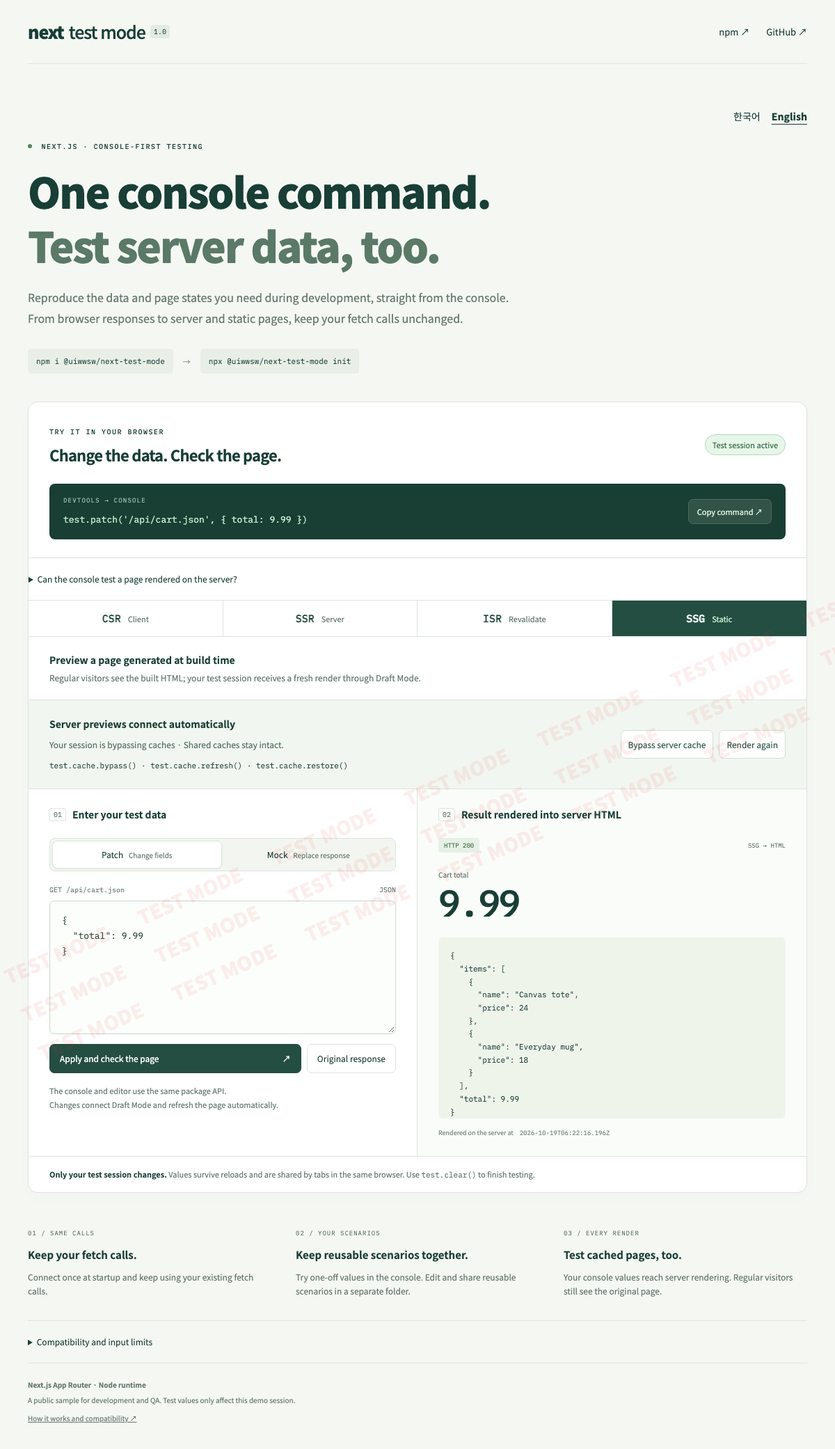
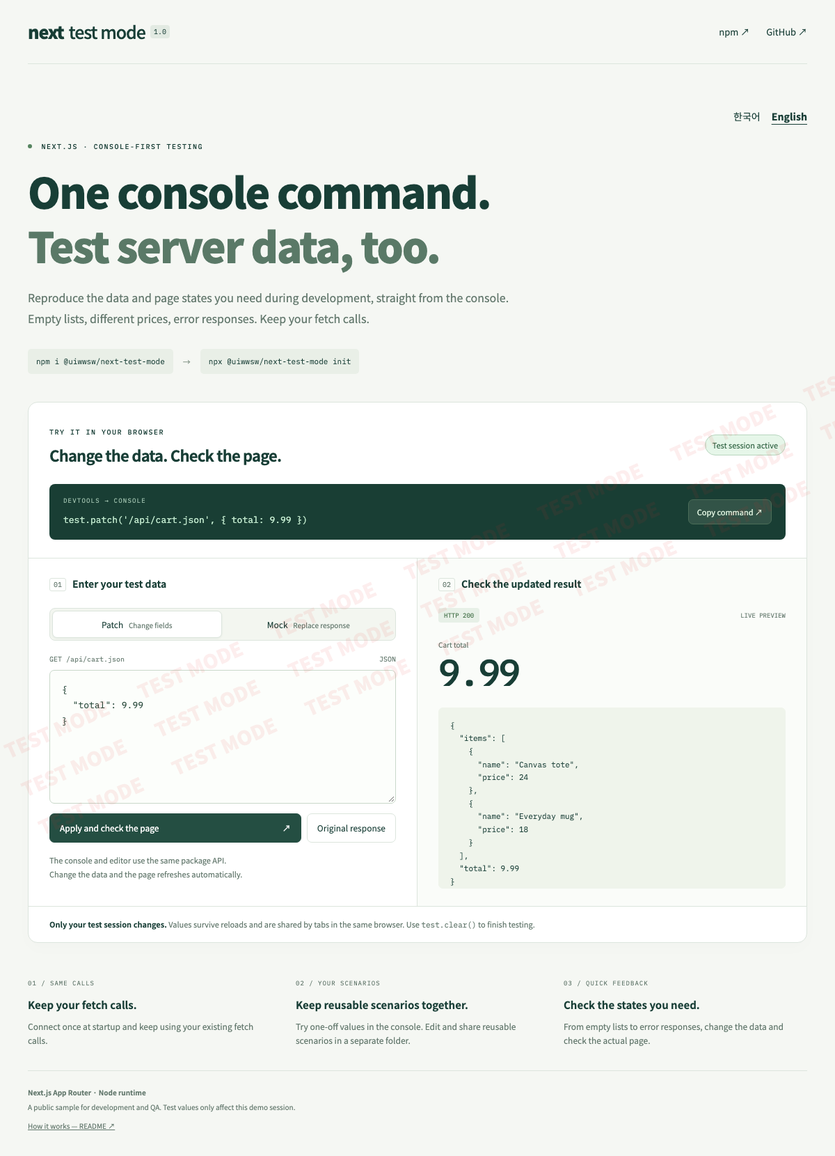
fix: focus the demo on console data testing

diff --git a/demo-components/Playground.jsx b/demo-components/Playground.jsx
@@ -5,21 +5,6 @@ import { english } from "./messages.js";
 const command = "test.patch('/api/cart.json', { total: 9.99 })";
 const snapshot = (runtime) =>
   JSON.stringify([runtime.active(), runtime.overrides()]);
-const modes = {
-  CSR: [
-    "브라우저가 가져온 응답",
-    "브라우저 fetch에 같은 테스트 값을 적용합니다.",
-  ],
-  SSR: ["요청마다 새로 그린 화면", "서버가 fetch한 값으로 HTML을 생성합니다."],
-  ISR: [
-    "캐시된 화면도 내 세션에서 새로",
-    "일반 방문자는 60초 재검증 캐시를, 테스트 세션은 새 서버 렌더를 사용합니다.",
-  ],
-  SSG: [
-    "빌드 때 만든 화면도 미리보기",
-    "일반 방문자는 빌드된 HTML을, 테스트 세션은 Draft Mode의 새 렌더를 받습니다.",
-  ],
-};
 export default function Playground({
   mode,
   locale = "ko",
@@ -28,7 +13,6 @@ export default function Playground({
   renderedAt = null,
 }) {
   const t = (value) => locale === "en" ? english[value] ?? value : value;
-  const prefix = locale === "en" ? "/en" : "";
   const [result, setResult] = useState(initial);
   const [input, setInput] = useState('{\n  "total": 9.99\n}');
   const [operation, setOperation] = useState("patch");
@@ -37,7 +21,6 @@ export default function Playground({
   const [active, setActive] = useState(false);
   const [error, setError] = useState("");
   const [copied, setCopied] = useState(false);
-  const [cacheState, setCacheState] = useState(null);
   useEffect(() => {
     let live = true;
     const controller = window.demoTestMode;
@@ -64,7 +47,6 @@ export default function Playground({
         .then(() => {
           if (live) {
             setReady(true);
-            setCacheState(controller.cache.status());
             setActive(controller.cache.status().draftEnabled);
           }
         })
@@ -109,7 +91,6 @@ export default function Playground({
     setError("");
     try {
       await window.demoTestMode.cache[action]();
-      setCacheState(window.demoTestMode.cache.status());
       setActive(window.demoTestMode.cache.status().draftEnabled);
     } catch (cause) {
       setError(cause.message);
@@ -148,7 +129,7 @@ export default function Playground({
         </h1>
         <p className="intro-copy">
            {t("개발 중 필요한 데이터와 화면 상태를 콘솔에서 바로 재현하세요.")} <br />
-           {t("브라우저 응답부터 서버·정적 페이지까지, 호출 코드는 그대로입니다.")} </p>
+           {t("빈 목록, 바뀐 가격, 오류 응답까지. 호출 코드는 그대로입니다.")} </p>
         <div className="install">
           <code>npm i @uiwwsw/next-test-mode</code>
           <span>→</span>
@@ -176,64 +157,6 @@ export default function Playground({
           <button onClick={copy} aria-label={t("콘솔 명령 복사")}>
             {copied ? t("복사 완료 ✓") : t("명령 복사 ↗")}
           </button>
-        </div>
-        <details className="limits">
-          <summary> {t("서버에서 만든 화면도 콘솔로 테스트할 수 있을까요?")} </summary>
-          <p> {t("브라우저 콘솔만으로는 이미 서버에서 생성한 HTML이나 빌드된 정적 데이터를 바꾸기 어렵습니다. Next Test Mode는 개발·QA 세션에서 테스트 값을 서버에 전달하고, Draft Mode로 캐시를 우회해 화면을 다시 렌더합니다. 평소 데브 모드에서 화면 상태를 재현하듯, 같은 콘솔 명령으로 확인하세요.")} </p>
-          <p> {t("아래 렌더 방식은 기능 목록이 아니라 같은 테스트 값이 어디까지 적용되는지 확인하는 예제입니다. 먼저 명령을 실행하고 다른 방식으로 이동해 보세요.")} </p>
-        </details>
-        <nav className="mode-nav" aria-label={t("렌더링 방식")}>
-          {Object.keys(modes).map((value) => (
-            <a
-              key={value}
-              href={`${prefix}/${value.toLowerCase()}`}
-              aria-current={mode === value ? "page" : undefined}
-            >
-              {value}
-              <span>
-                {value === "CSR"
-                  ? "Client"
-                  : value === "SSR"
-                    ? "Server"
-                    : value === "ISR"
-                      ? "Revalidate"
-                      : "Static"}
-              </span>
-            </a>
-          ))}
-        </nav>
-        <div className="mode-description">
-          <strong>{t(modes[mode][0])}</strong>
-          <p>{t(modes[mode][1])}</p>
-        </div>
-        <div className="cache-tools" aria-label={t("서버 캐시 제어")}>
-          <div>
-            <strong> {t("서버 미리보기는 자동으로 연결됩니다")} </strong>
-            <p data-cache-status>
-              {cacheState?.draftEnabled
-                ? t("내 세션은 캐시를 우회하는 중")
-                : t("기본 캐시 경로")}{" "}
-               {t("· 공용 캐시는 유지됩니다.")} </p>
-            <code>
-              test.cache.bypass() · test.cache.refresh() · test.cache.restore()
-            </code>
-          </div>
-          <div className="cache-actions">
-            <button
-              disabled={!ready}
-              onClick={() => {
-                void controlCache("bypass");
-              }}
-            >
-               {t("서버 캐시 우회")} </button>
-            <button
-              disabled={!ready}
-              onClick={() => {
-                void controlCache("refresh");
-              }}
-            >
-               {t("다시 렌더")} </button>
-          </div>
         </div>
         <div className="workspace">
           <section className="editor-pane">
@@ -306,20 +229,16 @@ export default function Playground({
             )}
             <p className="pane-note">
                {t("콘솔과 입력창은 같은 패키지 API를 실행합니다.")} <br />
-               {t("값을 바꾸면 Draft Mode 연결 후 화면이 자동 갱신됩니다.")} </p>
+               {t("값을 바꾸면 화면이 자동으로 갱신됩니다.")} </p>
           </section>
           <section className="result-pane">
             <div className="pane-heading">
               <span className="step">02</span>
-              <h3>
-                {mode === "CSR"
-                  ? t("브라우저가 받은 결과")
-                  : t("서버가 HTML에 넣은 결과")}
-              </h3>
+              <h3>{t("변경된 결과를 확인하세요")}</h3>
             </div>
             <div className="result-meta">
               <span className="http-badge">HTTP {result?.status ?? "…"}</span>
-              <span>{mode === "CSR" ? "CLIENT FETCH" : `${mode} → HTML`}</span>
+              <span>LIVE PREVIEW</span>
             </div>
             <div className="total-block">
               <span>Cart total</span>
@@ -330,11 +249,7 @@ export default function Playground({
                 ? JSON.stringify(result.data, null, 2)
                 : t("데이터를 불러오는 중…")}
             </pre>
-            {renderedAt && (
-              <div className="render-stamp">
-                 {t("서버에서 생성한 시각")} <time data-rendered-at>{renderedAt}</time>
-              </div>
-            )}
+            {renderedAt && <time hidden data-rendered-at>{renderedAt}</time>}
           </section>
         </div>
         <p className="session-note">
@@ -353,19 +268,12 @@ export default function Playground({
              {t("한 번 쓸 값은 콘솔에서. 반복할 시나리오는 별도 폴더에서 수정하고 공유하세요.")} </p>
         </article>
         <article>
-          <span>03 / EVERY RENDER</span>
-          <h3> {t("캐시된 페이지도 확인하세요.")} </h3>
+          <span>03 / QUICK FEEDBACK</span>
+          <h3> {t("필요한 상태를 바로 확인하세요.")} </h3>
           <p>
-             {t("콘솔의 테스트 값을 서버 렌더에도 전달합니다. 일반 방문자는 원래 페이지를 봅니다.")} </p>
+             {t("빈 목록부터 오류 응답까지. 데이터만 바꾸고 실제 화면에서 확인하세요.")} </p>
         </article>
       </section>
-      <details className="limits">
-        <summary> {t("지원 범위와 입력값 안내")} </summary>
-        <p>
-           {t("Next.js 16 App Router의 Node 환경에서 실행하는 fetch 기반 CSR·SSR·ISR·SSG 미리보기를 지원합니다. 정적 HTML export·Pages Router·Edge·DB 직접 조회는 자동 연결 범위에 포함하지 않습니다.")} </p>
-        <p>
-           {t("입력값은 인코딩 후 최대 3,500바이트입니다. 큰 응답은 필요한 필드만 Patch하거나 파일에 시나리오로 등록하세요. 이 데모는 /api/cart.json 샘플 경로만 변경합니다.")} </p>
-      </details>
     </>
   );
 }

diff --git a/demo-components/messages.js b/demo-components/messages.js
@@ -1,37 +1,17 @@
-// Shared by both locales; keep the console and rendering logic in one component.
+// Shared by both locales.
 export const english = {
-  "브라우저가 가져온 응답": "Responses fetched in the browser",
-  "브라우저 fetch에 같은 테스트 값을 적용합니다.": "Apply the same test values to browser fetch responses.",
-  "요청마다 새로 그린 화면": "A fresh page on every request",
-  "서버가 fetch한 값으로 HTML을 생성합니다.": "The server builds HTML from its fetched data.",
-  "캐시된 화면도 내 세션에서 새로": "Preview a cached page in your session",
-  "일반 방문자는 60초 재검증 캐시를, 테스트 세션은 새 서버 렌더를 사용합니다.": "Regular visitors use the 60-second revalidation cache; your test session gets a fresh server render.",
-  "빌드 때 만든 화면도 미리보기": "Preview a page generated at build time",
-  "일반 방문자는 빌드된 HTML을, 테스트 세션은 Draft Mode의 새 렌더를 받습니다.": "Regular visitors see the built HTML; your test session receives a fresh render through Draft Mode.",
   "명령을 선택해 복사해 주세요.": "Select and copy the command manually.",
   "콘솔 한 줄로.": "One console command.",
   "서버 데이터까지 테스트.": "Test server data, too.",
   "개발 중 필요한 데이터와 화면 상태를 콘솔에서 바로 재현하세요.": "Reproduce the data and page states you need during development, straight from the console.",
-  "브라우저 응답부터 서버·정적 페이지까지, 호출 코드는 그대로입니다.": "From browser responses to server and static pages, keep your fetch calls unchanged.",
   "실제 Next.js 데모": "Live Next.js demo",
   "값을 바꾸고, 화면에서 확인하세요.": "Change the data. Check the page.",
   "연결 중…": "Connecting…",
   "테스트 세션 활성": "Test session active",
   "원래 데이터": "Original data",
-  "서버에서 만든 화면도 콘솔로 테스트할 수 있을까요?": "Can the console test a page rendered on the server?",
-  "브라우저 콘솔만으로는 이미 서버에서 생성한 HTML이나 빌드된 정적 데이터를 바꾸기 어렵습니다. Next Test Mode는 개발·QA 세션에서 테스트 값을 서버에 전달하고, Draft Mode로 캐시를 우회해 화면을 다시 렌더합니다. 평소 데브 모드에서 화면 상태를 재현하듯, 같은 콘솔 명령으로 확인하세요.": "The browser console alone cannot easily change HTML already rendered on the server or data fixed at build time. Next Test Mode sends your test values to the server and uses Draft Mode to bypass caches for your development or QA session. Reproduce page states with the same commands you use while developing locally.",
-  "아래 렌더 방식은 기능 목록이 아니라 같은 테스트 값이 어디까지 적용되는지 확인하는 예제입니다. 먼저 명령을 실행하고 다른 방식으로 이동해 보세요.": "The rendering examples below show how far the same test values reach. Run a command first, then switch to another example.",
-  "렌더링 방식": "Rendering examples",
   "콘솔 명령 복사": "Copy console command",
   "복사 완료 ✓": "Copied ✓",
   "명령 복사 ↗": "Copy command ↗",
-  "서버 캐시 제어": "Server preview controls",
-  "서버 미리보기는 자동으로 연결됩니다": "Server previews connect automatically",
-  "내 세션은 캐시를 우회하는 중": "Your session is bypassing caches",
-  "기본 캐시 경로": "Default cache path",
-  "· 공용 캐시는 유지됩니다.": "· Shared caches stay intact.",
-  "서버 캐시 우회": "Bypass server cache",
-  "다시 렌더": "Render again",
   "원하는 데이터를 넣으세요": "Enter your test data",
   "일부 변경": "Change fields",
   "전체 교체": "Replace response",
@@ -39,11 +19,7 @@ export const english = {
   "적용하고 화면 확인": "Apply and check the page",
   "원래 응답": "Original response",
   "콘솔과 입력창은 같은 패키지 API를 실행합니다.": "The console and editor use the same package API.",
-  "값을 바꾸면 Draft Mode 연결 후 화면이 자동 갱신됩니다.": "Changes connect Draft Mode and refresh the page automatically.",
-  "브라우저가 받은 결과": "Result received by the browser",
-  "서버가 HTML에 넣은 결과": "Result rendered into server HTML",
   "데이터를 불러오는 중…": "Loading data…",
-  "서버에서 생성한 시각": "Rendered on the server at",
   "내 테스트 세션에만 적용됩니다.": "Only your test session changes.",
   "새로고침 후에도 유지되며, 같은 브라우저의 탭이 공유합니다.": "Values survive reloads and are shared by tabs in the same browser. Use",
   "로 종료하세요.": "to finish testing.",
@@ -52,9 +28,9 @@ export const english = {
   "앱 시작 지점에 한 번 연결하면 기존 fetch를 계속 사용합니다.": "Connect once at startup and keep using your existing fetch calls.",
   "테스트는 테스트로 남기세요.": "Keep reusable scenarios together.",
   "한 번 쓸 값은 콘솔에서. 반복할 시나리오는 별도 폴더에서 수정하고 공유하세요.": "Try one-off values in the console. Edit and share reusable scenarios in a separate folder.",
-  "캐시된 페이지도 확인하세요.": "Test cached pages, too.",
-  "콘솔의 테스트 값을 서버 렌더에도 전달합니다. 일반 방문자는 원래 페이지를 봅니다.": "Your console values reach server rendering. Regular visitors still see the original page.",
-  "지원 범위와 입력값 안내": "Compatibility and input limits",
-  "Next.js 16 App Router의 Node 환경에서 실행하는 fetch 기반 CSR·SSR·ISR·SSG 미리보기를 지원합니다. 정적 HTML export·Pages Router·Edge·DB 직접 조회는 자동 연결 범위에 포함하지 않습니다.": "Supports fetch-based CSR, SSR, ISR and SSG previews with Next.js 16 App Router on Node. Static HTML export, Pages Router, Edge and direct database calls require separate integration.",
-  "입력값은 인코딩 후 최대 3,500바이트입니다. 큰 응답은 필요한 필드만 Patch하거나 파일에 시나리오로 등록하세요. 이 데모는 /api/cart.json 샘플 경로만 변경합니다.": "Encoded input is limited to 3,500 bytes. For larger responses, patch only the fields you need or define reusable scenarios in files. This demo only changes the /api/cart.json sample endpoint."
+  "빈 목록, 바뀐 가격, 오류 응답까지. 호출 코드는 그대로입니다.": "Empty lists, different prices, error responses. Keep your fetch calls.",
+  "값을 바꾸면 화면이 자동으로 갱신됩니다.": "Change the data and the page refreshes automatically.",
+  "변경된 결과를 확인하세요": "Check the updated result",
+  "필요한 상태를 바로 확인하세요.": "Check the states you need.",
+  "빈 목록부터 오류 응답까지. 데이터만 바꾸고 실제 화면에서 확인하세요.": "From empty lists to error responses, change the data and check the actual page."
 };

diff --git a/demo-components/SiteLayout.jsx b/demo-components/SiteLayout.jsx
@@ -1,3 +1,4 @@
+import packageInfo from "../package.json";
 import { siteUrl } from "./seo.js";
 export default function SiteLayout({ children, locale = "ko" }) {
   return (
@@ -6,7 +7,7 @@ export default function SiteLayout({ children, locale = "ko" }) {
         <script type="application/ld+json" dangerouslySetInnerHTML={{ __html: JSON.stringify({
           "@context": "https://schema.org", "@type": "SoftwareApplication",
           name: "Next Test Mode", applicationCategory: "DeveloperApplication",
-          operatingSystem: "Cross-platform", softwareVersion: "1.0.0",
+          operatingSystem: "Cross-platform", softwareVersion: packageInfo.version,
           url: `${siteUrl}${locale === "en" ? "/en" : ""}`, inLanguage: locale,
           description: locale === "en" ? "Test Next.js fetch responses and page states from the console, with session-scoped server and static previews." : "콘솔에서 Next.js fetch 응답과 화면 상태를 재현하고 서버·정적 페이지도 세션별로 확인하는 개발·QA 도구입니다.",
           sameAs: "https://github.com/uiwwsw/next-test-mode",
@@ -31,8 +32,8 @@ export default function SiteLayout({ children, locale = "ko" }) {
           <p>
             {locale === "en" ? "A public sample for development and QA. Test values only affect this demo session." : "이 사이트는 테스트용 공개 샘플입니다. 다른 앱의 데이터에는 영향을 주지 않습니다."}
           </p>
-          <a href="https://github.com/uiwwsw/next-test-mode/blob/main/docs/server-rendering.md">
-            {locale === "en" ? "How it works and compatibility ↗" : "동작 원리와 지원 범위 ↗"}
+          <a href="https://github.com/uiwwsw/next-test-mode/blob/main/README.md#rendering-support">
+            {locale === "en" ? "How it works — README ↗" : "동작 원리와 지원 범위는 README에서 ↗"}
           </a>
         </footer>
       </body>

diff --git a/demo-components/seo.js b/demo-components/seo.js
@@ -1,8 +1,10 @@
 export const siteUrl = 'https://test-mode-tau.vercel.app';
-export const routes = ['', '/csr', '/ssr', '/isr', '/ssg'];
+export const routes = [''];
 export function pageMetadata(locale = 'ko', path = '') {
   const en = locale === 'en';
-  const label = path ? `${path.slice(1).toUpperCase()} · ` : '';
+  const label = '';
+  // Compatibility rendering routes share the same demo UI; consolidate search signals.
+  path = '';
   const title = en
     ? `${label}Next Test Mode — Test Next.js API data from the console`
     : `${label}Next Test Mode — Next.js API 데이터를 콘솔에서 테스트`;

diff --git a/README.ko.md b/README.ko.md
@@ -1,7 +1,7 @@
 [English](./README.md) · **한국어**
 
 <p align="center">
-  <img src="https://raw.githubusercontent.com/uiwwsw/next-test-mode/v1.0.0/docs/assets/hero.png" width="100%" alt="Next Test Mode — 콘솔 한 줄로 서버 데이터까지 테스트." />
+  <img src="https://raw.githubusercontent.com/uiwwsw/next-test-mode/v1.0.1/docs/assets/hero.png" width="100%" alt="Next Test Mode — 콘솔 한 줄로 서버 데이터까지 테스트." />
 </p>
 <p align="center">
   <strong>콘솔 한 줄로. 서버 데이터까지 테스트.</strong><br />
@@ -83,10 +83,10 @@ src/                         # src 없는 앱은 프로젝트 루트
 
 ## See it in action
 
-**[CSR](https://test-mode-tau.vercel.app/csr) · [SSR](https://test-mode-tau.vercel.app/ssr) · [ISR](https://test-mode-tau.vercel.app/isr) · [SSG](https://test-mode-tau.vercel.app/ssg)** — 먼저 콘솔에서 장바구니 값을 바꾸고, 페이지를 이동해 서버·정적 화면에도 같은 값이 반영되는지 확인하세요.
+**[콘솔 데모 열기](https://test-mode-tau.vercel.app/)** — 값을 바꾸고 화면을 확인한 뒤 `test.clear()`로 돌아오세요.
 
 <p align="center">
-  <img src="https://raw.githubusercontent.com/uiwwsw/next-test-mode/v1.0.0/docs/assets/scenarios.gif" width="960" alt="실제 Next.js 데모: SSG 원래 가격, 콘솔 patch, SSR에서도 같은 값, HTTP 503, 원래 캐시 응답 복귀." />
+  <img src="https://raw.githubusercontent.com/uiwwsw/next-test-mode/v1.0.1/docs/assets/scenarios.gif" width="960" alt="실제 Next.js 데모: SSG 원래 가격, 콘솔 patch, SSR에서도 같은 값, HTTP 503, 원래 캐시 응답 복귀." />
 </p>
 
 데모의 DevTools Console에 입력하거나, 화면의 JSON 편집기에서 원하는 값을 적용하세요.
@@ -100,11 +100,11 @@ test.reset('/api/cart.json');   // 이 경로의 직접 입력만 제거
 test.clear();                  // 모든 입력과 시나리오 해제
 ```
 
-SSR·ISR·SSG 탭에서는 **서버가 보낸 HTML 자체에 변경된 값이 들어갑니다.** 다른 브라우저 세션의 원래 응답은 유지됩니다. JSON 상태는 같은 브라우저의 탭이 공유하며 새로고침 후에도 유지됩니다. 테스트가 끝나면 `test.clear()`를 사용하세요.
+서버 렌더 미리보기에서는 **서버가 보낸 HTML 자체에 변경된 값이 들어갑니다.** 다른 브라우저 세션의 원래 응답은 유지됩니다. JSON 상태는 같은 브라우저의 탭이 공유하며 새로고침 후에도 유지됩니다. 테스트가 끝나면 `test.clear()`를 사용하세요.
 
 ## Rendering support
 
-개발·QA에서 다양한 렌더 환경의 화면 상태를 재현합니다. CSR은 브라우저 fetch를 가로채고, 서버 페이지는 테스트 쿠키로 값을 전달받습니다. Next Draft Mode가 해당 세션의 정적·재검증 캐시를 우회하므로, 원래 SSG·ISR 페이지에서도 변경된 데이터로 새 HTML을 확인할 수 있습니다.
+브라우저 콘솔만으로는 이미 만들어진 서버 HTML이나 SSG 산출물을 직접 바꿀 수 없습니다. Next Test Mode는 테스트 값을 서버에 전달하고 Draft Mode로 해당 세션의 캐시를 우회해 새 HTML을 렌더합니다. 덕분에 개발자는 렌더 방식을 골라 테스트하지 않고 같은 콘솔 명령으로 지원하는 fetch 데이터와 화면 상태를 재현합니다. CSR은 브라우저 fetch를 가로채고, 서버 페이지는 테스트 쿠키로 값을 전달받습니다. 렌더별 동작과 제한은 아래 표에서 확인하세요.
 
 | 렌더 방식 | Console 변경 후 동작 |
 | :--- | :--- |

diff --git a/README.md b/README.md
@@ -1,7 +1,7 @@
 **English** · [한국어](./README.ko.md)
 
 <p align="center">
-  <img src="https://raw.githubusercontent.com/uiwwsw/next-test-mode/v1.0.0/docs/assets/hero.png" width="100%" alt="Next Test Mode — One console. Server data, too." />
+  <img src="https://raw.githubusercontent.com/uiwwsw/next-test-mode/v1.0.1/docs/assets/hero.png" width="100%" alt="Next Test Mode — One console. Server data, too." />
 </p>
 <p align="center"><strong>Test Next.js API data and page states from the console.</strong><br />Keep your fetch calls. Try the data you need. Check the real page.</p>
 <p align="center">
@@ -74,11 +74,9 @@ Development is enabled by default. To use an intentional QA deployment, set **`N
 
 ## See it in action
 
-Open the [English demo](https://test-mode-tau.vercel.app/en) or [한국어 데모](https://test-mode-tau.vercel.app/). Change a cart value first, then visit the server and static examples to see the same value in their rendered HTML.
+Open the [English demo](https://test-mode-tau.vercel.app/en) or [한국어 데모](https://test-mode-tau.vercel.app/). Change a cart value in the console, check the updated page, then clear the test.
 
-[CSR](https://test-mode-tau.vercel.app/en/csr) · [SSR](https://test-mode-tau.vercel.app/en/ssr) · [ISR](https://test-mode-tau.vercel.app/en/isr) · [SSG](https://test-mode-tau.vercel.app/en/ssg)
-
-<p align="center"><img src="https://raw.githubusercontent.com/uiwwsw/next-test-mode/v1.0.0/docs/assets/scenarios.gif" width="960" alt="Console patch changes a static cart preview and server HTML; mock an HTTP error, then restore the original response." /></p>
+<p align="center"><img src="https://raw.githubusercontent.com/uiwwsw/next-test-mode/v1.0.1/docs/assets/scenarios.gif" width="960" alt="Console patch changes a static cart preview and server HTML; mock an HTTP error, then restore the original response." /></p>
 
 Use DevTools Console or the demo's JSON editor:
 
@@ -183,4 +181,4 @@ npm run dev:demo       # Next.js demo
 npm run build:demo     # Vercel production build
 ```
 
-A GitHub Release from a verified main tag triggers CI and npm publishing with provenance. Stable releases use `latest`. Version 1.0.0 retains the 0.7 public APIs. [Release process](./docs/releasing.md) · [Architecture](./docs/architecture.md) · [Changelog](./CHANGELOG.md).
+A GitHub Release from a verified main tag triggers CI and npm publishing with provenance. Stable releases use `latest`. Version 1.0 retains the 0.7 public APIs. [Release process](./docs/releasing.md) · [Architecture](./docs/architecture.md) · [Changelog](./CHANGELOG.md).

diff --git a/docs/releasing.md b/docs/releasing.md
@@ -10,7 +10,7 @@ npm run test:demo
 npm pack
 ```
 
-PR/main CI는 Node.js 20.9 / 22 / 24, Chromium, 실제 Next.js 16.4.2를 검증합니다. tarball을 독립 앱에 설치해 ESM·타입·스타터·CLI를 확인합니다. Next fixture는 dev, production의 SSR·SSG·ISR·force-static·생성 경로·unstable_cache, Cache Components/use cache, 비활성 production을 각각 검사합니다. 테스트 카탈로그가 비활성 production의 브라우저·서버 번들에서 제외되는지, 첫 CSR fetch부터 가로채는지도 검사합니다. 공개 데모는 네 렌더 모드·모바일 JSON 입력·데이터 조작 없는 캐시 우회/복귀를 검사합니다.
+PR/main CI는 Node.js 20.9 / 22 / 24, Chromium, 실제 Next.js 16.4.2를 검증합니다. tarball을 독립 앱에 설치해 ESM·타입·스타터·CLI를 확인합니다. Next fixture는 dev, production의 SSR·SSG·ISR·force-static·생성 경로·unstable_cache, Cache Components/use cache, 비활성 production을 각각 검사합니다. 테스트 카탈로그가 비활성 production의 브라우저·서버 번들에서 제외되는지, 첫 CSR fetch부터 가로채는지도 검사합니다. 공개 데모는 단일 콘솔 테스트 흐름·모바일 JSON 입력·언어 전환을 검사하며, 기존 렌더 경로와 캐시 우회/복귀는 회귀 검증으로 유지합니다.
 
 ## npm
 

diff --git a/CHANGELOG.md b/CHANGELOG.md
@@ -1,5 +1,10 @@
 # Changelog
 
+## 1.0.1 — 2026-10-19
+
+- Focus the homepage on changing data in the console and checking the page. Remove rendering-mode navigation and technical cache controls from the demo UI.
+- Keep rendering support and the session-scoped preview mechanism in the English and Korean READMEs. Existing rendering routes and APIs remain compatible.
+
 ## 1.0.0 — 2026-10-19
 
 - First stable release of the console-first Next.js development and QA workflow.
